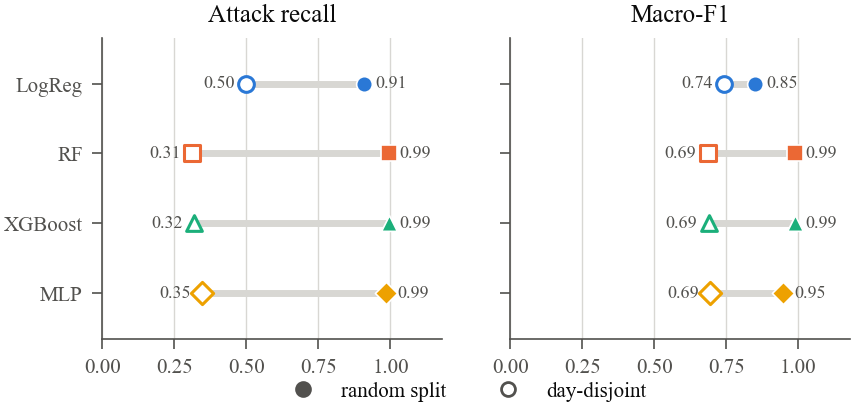
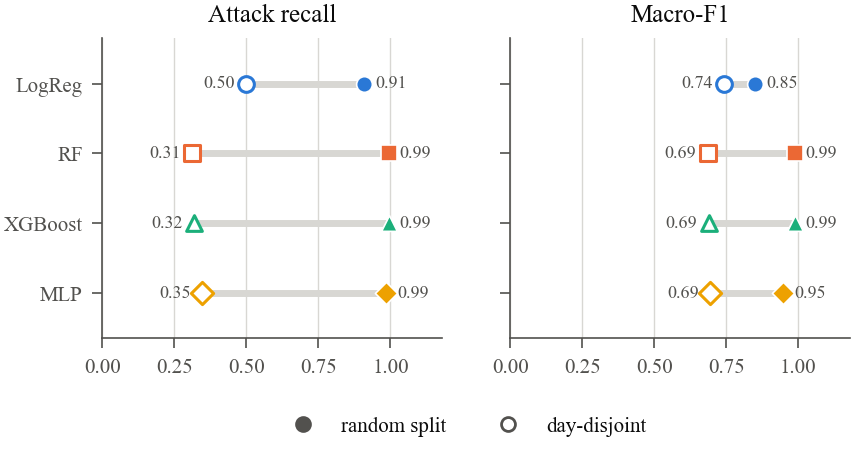
Rewrite abstract and conclusion around the measured gap
Both still carried numbers from the leaky pipeline (macro-F1 99.2 %, 18.58 s
training, 0.0057 ms per sample) and the old framing in which XGBoost was the
best model and the deployment was a diagram. Every one of those claims is
now either superseded or withdrawn.

The abstract leads with the quantity the paper measures rather than with a
score: recall 0.9935 to 0.3164 for XGBoost between the two protocols, the
inversion of the model ranking, and the paired tests that fail to separate
the two ensembles. The conclusion states plainly that an earlier version of
this work made the per-sample-to-throughput extrapolation it now argues
against.

At 17 pages the paper is over the 15-page limit and will need trimming once
the remaining stages land. The figures carry direct value labels, so tables
that merely restate them are the first thing to go.

diff --git a/main.tex b/main.tex
@@ -66,27 +66,33 @@ Ho Chi Minh City University of Technology (HCMUT), VNU-HCM, Vietnam \\
 \maketitle
 
 \begin{abstract}
-Network intrusion detection is a cornerstone of modern cyber-defense, yet
-the transition from an accurate offline classifier to a scalable,
-continuously serving system is frequently overlooked. In this paper we
-present a reproducible comparative study of classical machine learning and
-deep learning models for network intrusion detection on the widely used
-CICIDS2017 benchmark, replicated independently on UNSW-NB15. We design
-a unified pipeline covering data cleaning,
-feature selection, and class-imbalance handling, and we evaluate Logistic
-Regression, Random Forest, XGBoost, and a multilayer perceptron under a
-single protocol using accuracy, precision, recall, macro-F1, and ROC-AUC.
-Beyond predictive quality, we quantify training and inference cost so that
-model selection reflects deployability rather than accuracy alone. Finally,
-we propose a cloud-native deployment design that packages the selected
-model as a containerized microservice with an automated CI/CD pipeline.
-The best model (XGBoost) attains a macro-F1 of 99.2\% with an inference cost
-of only 0.006~ms per sample, indicating both high detection quality and low
-serving cost.
-Our study offers a practical, cost-aware reference for building deployable
-intrusion detection systems.
-\keywords{Intrusion Detection \and CICIDS2017 \and Machine Learning \and
-Deep Learning \and Cloud-Native \and Network Security.}
+Machine-learned intrusion detectors report near-perfect scores on public
+benchmarks, and practitioners do not see that performance in the field. We
+show that a large part of the discrepancy is produced by the evaluation
+itself, and we measure how large. Holding the models, the hyperparameters and
+the preprocessing fixed on CICIDS2017, and re-fitting feature selection,
+oversampling and scaling inside every training split, we compare a
+conventional stratified random split against a day-disjoint split in which no
+attack family is shared between training and test. Attack recall for XGBoost
+falls from 0.9935 to 0.3164 and macro-F1 from 0.9879 to 0.6887; Random Forest
+behaves the same way. The ranking of models does not survive either: Logistic
+Regression, the weakest detector under the random split, becomes the
+strongest under the day-disjoint one, so a benchmark that flatters a model can
+also select the wrong one. Repeating the conventional protocol over five
+seeds further shows that the usual claim of a best model is unsupported --
+XGBoost leads Random Forest by 0.00044 macro-F1, which neither a paired
+$t$-test nor a Wilcoxon signed-rank test separates from zero. We then
+translate the measured error rates into precision at operational attack
+prevalence, where benchmark precision does not transfer, and we report the
+measured end-to-end latency distribution of the model served as a
+containerised endpoint under controlled concurrency -- deliberately separate
+from the amortised per-sample model cost that the literature, and an earlier
+version of this work, mistook for a service throughput. The experiment
+driver, the serving implementation, the deployment manifests and the raw
+result files from which every table and figure here is generated are released
+with the paper.
+\keywords{Intrusion detection \and Evaluation methodology \and Data leakage
+\and CICIDS2017 \and Model serving \and Network security.}
 \end{abstract}
 
 % =====================================================================
@@ -632,24 +638,51 @@ absent rather than estimating them: extrapolating deployment behaviour from
 model cost is precisely the error this paper argues against.
 
 % =====================================================================
-\section{Conclusion and Future Work}
+\section{Conclusion}
 \label{sec:conclusion}
-We presented a reproducible, cost-aware comparison of machine learning and
-deep learning models for network intrusion detection on CICIDS2017 and
-UNSW-NB15, paired with a cloud-native deployment design. Our results
-(Tables~\ref{tab:results}--\ref{tab:cost}) indicate that XGBoost provides
-the best balance of detection quality (99.18\,\% macro-F1) and serving cost
-(18.58\,s training, 0.0057\,ms per-sample inference), reinforcing the view
-that deployability should be a first-class criterion in IDS model selection.
+We set out to measure how much of a benchmark intrusion-detection score is a
+property of the detector and how much is a property of the protocol. On
+CICIDS2017, with everything but the split held fixed, the answer is that most
+of the headline number is protocol. Attack recall for the two tree ensembles
+falls from about 0.99 to about 0.31 when no attack family is shared between
+training and test, and the ranking of the models inverts, so the conventional
+protocol does not merely inflate a score -- it can also recommend the wrong
+model.
 
-Several directions extend this work. Online and continual learning would
-allow the detector to adapt to concept drift as traffic and attack patterns
-evolve. Explainable detection would help analysts triage alerts and build
-trust in automated decisions. Graph-based and sequence models could exploit
-relational and temporal structure beyond per-flow features, and a federated
-formulation would enable collaborative detection across distributed
-telecommunication nodes without centralizing sensitive data. These
-constitute the intended trajectory of our continuing doctoral research.
+Three consequences follow for how such systems should be reported. First, a
+single split is not a result: over five seeds the difference between the two
+leading models is smaller than the seed-to-seed variation of the weaker two,
+and a paired test does not separate it from zero. Second, an aggregate binary
+score is not a result either, because it averages over families whose
+individual detectability differs by an order of magnitude, and the families
+that vanish into the average are not the harmless ones. Third, precision
+measured at benchmark prevalence does not survive the move to a production
+link, where the same error rates imply a very different alert queue.
+
+The engineering claim is subject to the same discipline. We report the
+latency distribution of the running service under controlled concurrency, and
+we do not derive it from the amortised per-sample cost of the model; the
+cluster-level properties we did not measure are named as unmeasured rather
+than estimated. An earlier version of this work made exactly the
+extrapolation we now argue against, which is part of why we argue against it.
+
+None of this says that learned intrusion detection does not work. It says
+that the published numbers answer a question -- can the model recognise more
+instances of attacks it has already seen? -- that is easier than the
+operational one. The gap between the two protocols is a usable estimate of
+that difference, it is cheap to compute, and we would encourage its reporting
+alongside the conventional figure rather than in place of it.
+
+Three directions follow directly. The protocol should be re-run on a
+corrected~\cite{lanvin2023errors} and on a contemporary corpus, to separate
+the effect of the split from the defects of this particular dataset.
+Detectors designed for unseen families -- one-class and anomaly-based
+formulations -- should be evaluated under the same day-disjoint protocol,
+where they may well overturn the ordering reported here. And the
+cluster-level serving measurements left open in
+Section~\ref{sec:limitations} should be completed, since autoscaling
+behaviour under attack-driven load spikes is precisely the case an intrusion
+detector must survive.
 
 \ifanon\else
 \subsubsection*{Acknowledgements.} % TODO (tuỳ chọn): lời cảm ơn / nguồn tài trợ.

diff --git a/experiments/make_figures.py b/experiments/make_figures.py
@@ -175,7 +175,7 @@ def fig_optimism_gap():
                markeredgecolor=MUTED, markersize=5, label="day-disjoint"),
     ]
     fig.legend(handles=handles, loc="lower center", ncol=2, frameon=False,
-               bbox_to_anchor=(0.5, -0.10))
+               bbox_to_anchor=(0.5, -0.19))
     save(fig, "fig_optimism_gap.pdf")
 
 
